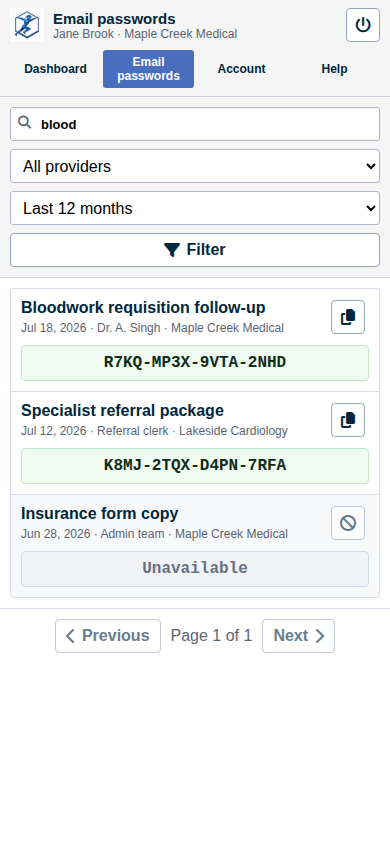
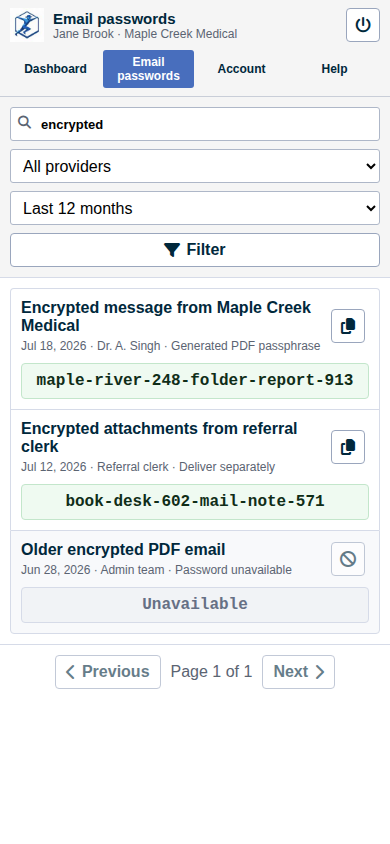
docs: use generated passphrase examples in portal mocks

Changed region(s): [[0.0, 0.3389, 0.9846, 0.8009], [0.0923, 0.1232, 0.2769, 0.154]]

diff --git a/patient-portal-mocks/index.html b/patient-portal-mocks/index.html
@@ -183,7 +183,7 @@
             <button class="module-tile" data-target="passwords">
               <i class="fas fa-lock"></i>
               <span>Email passwords</span>
-              <small>3 available</small>
+              <small>2 available</small>
             </button>
             <button class="module-tile" data-target="account">
               <i class="fas fa-user-cog"></i>
@@ -240,7 +240,7 @@
         <div class="toolbar">
           <label class="search-box">
             <i class="fas fa-search"></i>
-            <input type="search" value="blood" aria-label="Search email records">
+            <input type="search" value="encrypted" aria-label="Search email records">
           </label>
           <select aria-label="Provider">
             <option>All providers</option>
@@ -257,24 +257,24 @@
         <div class="record-list" aria-label="Unlock passwords">
           <article class="record-row">
             <div class="record-main">
-              <div class="record-title">Bloodwork requisition follow-up</div>
-              <div class="record-meta">Jul 18, 2026 · Dr. A. Singh · Maple Creek Medical</div>
+              <div class="record-title">Encrypted message from Maple Creek Medical</div>
+              <div class="record-meta">Jul 18, 2026 · Dr. A. Singh · Generated PDF passphrase</div>
             </div>
-            <div class="password-chip" aria-label="Unlock password">R7KQ-MP3X-9VTA-2NHD</div>
+            <div class="password-chip" aria-label="Generated PDF passphrase">maple-river-248-folder-report-913</div>
             <button class="icon-button" title="Copy password" aria-label="Copy password"><i class="fas fa-copy"></i></button>
           </article>
           <article class="record-row">
             <div class="record-main">
-              <div class="record-title">Specialist referral package</div>
-              <div class="record-meta">Jul 12, 2026 · Referral clerk · Lakeside Cardiology</div>
+              <div class="record-title">Encrypted attachments from referral clerk</div>
+              <div class="record-meta">Jul 12, 2026 · Referral clerk · Deliver separately</div>
             </div>
-            <div class="password-chip" aria-label="Unlock password">K8MJ-2TQX-D4PN-7RFA</div>
+            <div class="password-chip" aria-label="Generated PDF passphrase">book-desk-602-mail-note-571</div>
             <button class="icon-button" title="Copy password" aria-label="Copy password"><i class="fas fa-copy"></i></button>
           </article>
           <article class="record-row unavailable">
             <div class="record-main">
-              <div class="record-title">Insurance form copy</div>
-              <div class="record-meta">Jun 28, 2026 · Admin team · Maple Creek Medical</div>
+              <div class="record-title">Older encrypted PDF email</div>
+              <div class="record-meta">Jun 28, 2026 · Admin team · Password unavailable</div>
             </div>
             <div class="password-chip muted" aria-label="Unavailable">Unavailable</div>
             <button class="icon-button" title="Unavailable" aria-label="Unavailable" disabled><i class="fas fa-ban"></i></button>
@@ -390,10 +390,10 @@
             </div>
             <article class="record-row staff-preview">
               <div class="record-main">
-                <div class="record-title">Bloodwork requisition follow-up</div>
-                <div class="record-meta">Patient sees date, sender, subject, and status</div>
+                <div class="record-title">Encrypted message from Maple Creek Medical</div>
+                <div class="record-meta">Patient sees date, sender, subject, and generated-passphrase status</div>
               </div>
-              <div class="password-chip muted">••••-••••-••••-••••</div>
+              <div class="password-chip muted">•••••-•••••-•••-•••••-•••••-•••</div>
             </article>
           </section>
         </div>
